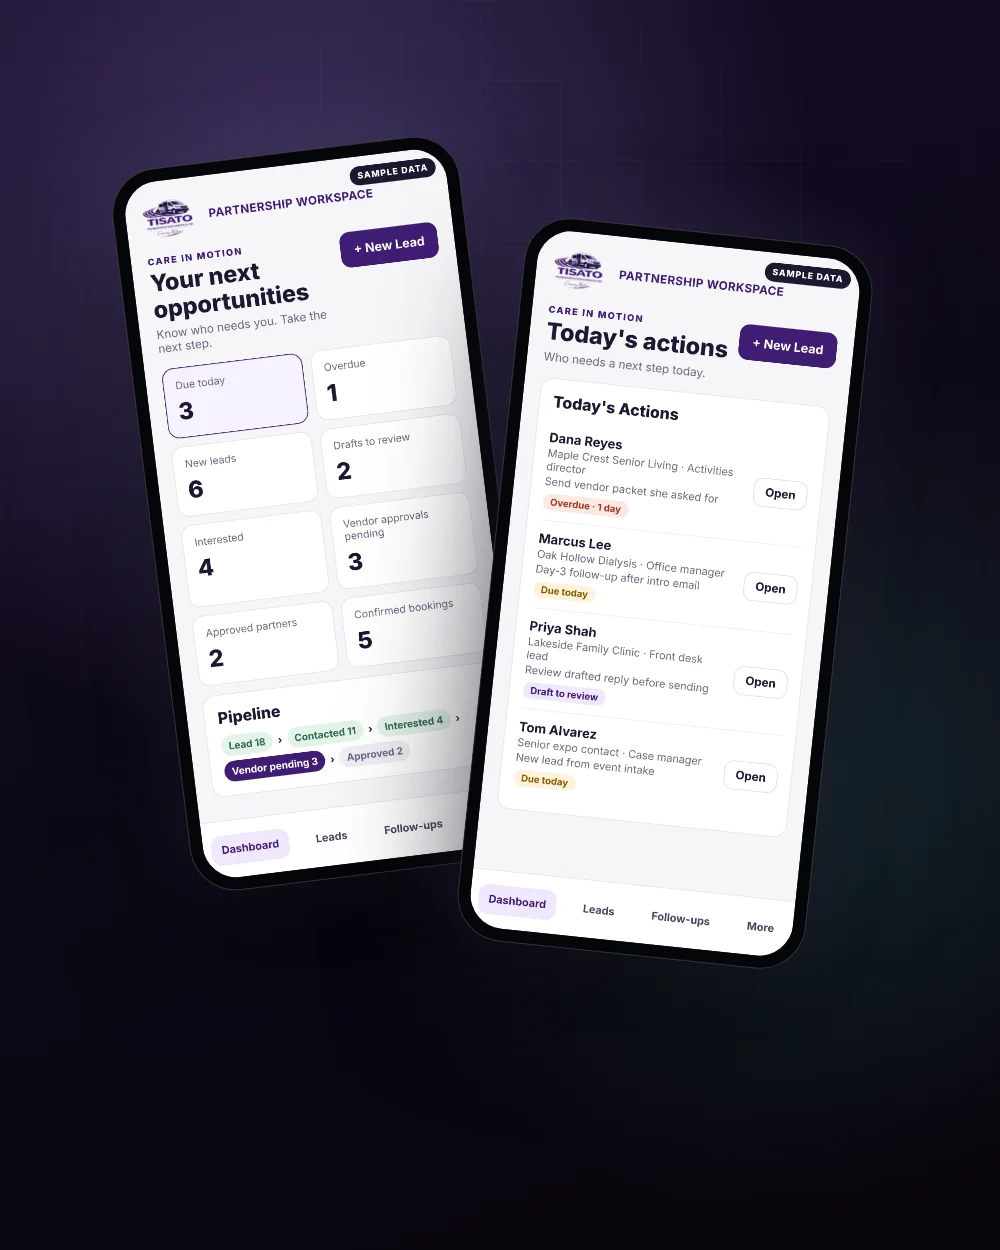
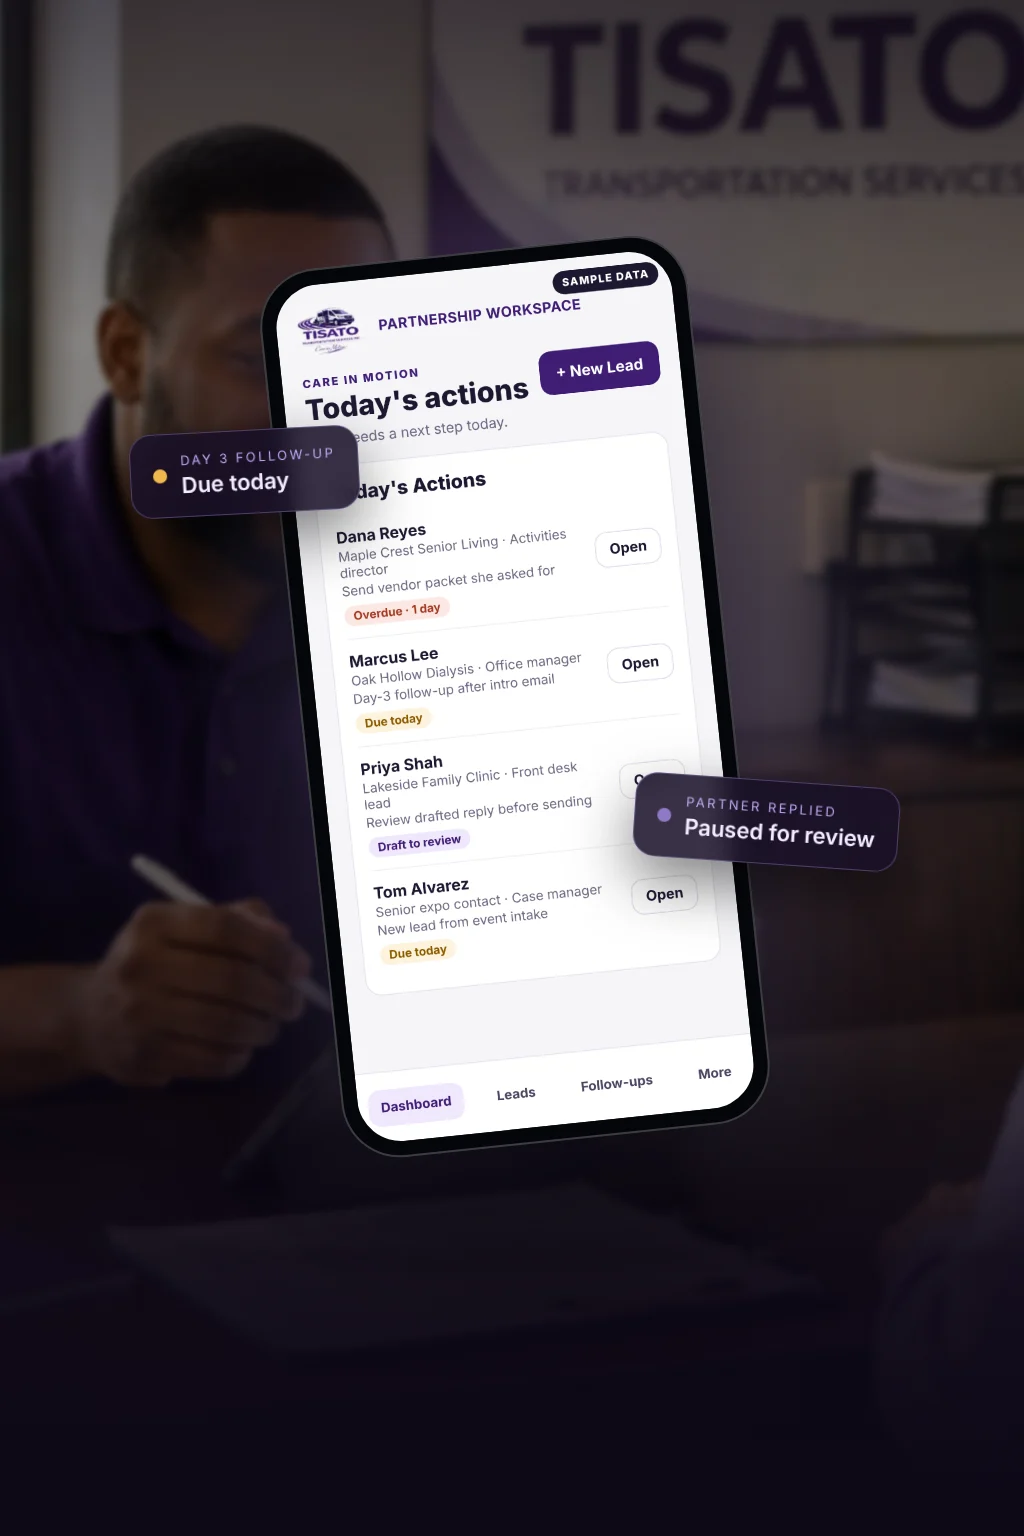
Strengthen CRM case study: automation rules, architecture, new cover
Claude-Session: https://claude.ai/code/session_01LMzmp2VPLy6YUSYNcS77mY

diff --git a/src/components/sections/TisatoCrmCaseStudy.tsx b/src/components/sections/TisatoCrmCaseStudy.tsx
@@ -2,7 +2,9 @@ import { useLayoutEffect, useState } from "react";
 import { AnimatePresence, motion } from "framer-motion";
 import { Link } from "react-router-dom";
 import {
+  crmArchitecture,
   crmGalleryItems,
+  crmRules,
   crmHero,
   crmInsight,
   crmOutcomes,
@@ -276,6 +278,89 @@ function CrmWorkflowStrip() {
   );
 }
 
+function CrmRulesSection() {
+  return (
+    <section className="relative px-6 py-20 md:px-10 lg:px-16">
+      <div className="mx-auto max-w-[1220px] overflow-hidden rounded-[2.6rem] border border-white/8 bg-[linear-gradient(180deg,rgba(24,15,39,0.94),rgba(13,8,22,0.92))] p-6 shadow-[0_30px_100px_rgba(0,0,0,0.26)] backdrop-blur-xl md:p-8">
+        <div className="mb-10 grid gap-6 lg:grid-cols-[1fr_1fr] lg:items-end">
+          <div>
+            <p className="text-xs uppercase tracking-[0.35em] text-muted">Automation rules</p>
+            <h2 className="mt-4 max-w-3xl text-4xl font-light leading-[1.04] md:text-6xl">
+              Knowing when to{" "}
+              <span className="font-display italic">stop</span> mattered as much as knowing when to send.
+            </h2>
+          </div>
+          <p className="max-w-xl text-sm leading-7 text-text-primary/65 md:text-base">
+            Every rule is deterministic, so the team can predict exactly what the system will do. No paid AI decides who gets contacted, and no message goes out on its own.
+          </p>
+        </div>
+        <div className="grid gap-3 md:grid-cols-2">
+          {crmRules.map((rule, index) => (
+            <motion.div
+              key={rule.when}
+              initial={{ opacity: 0, y: 18 }}
+              whileInView={{ opacity: 1, y: 0 }}
+              viewport={{ once: true, margin: "-60px" }}
+              transition={{ duration: 0.45, delay: (index % 2) * 0.06 }}
+              className="grid grid-cols-[auto_1fr] gap-4 rounded-[1.6rem] border border-white/10 bg-[linear-gradient(180deg,rgba(255,255,255,0.06),rgba(255,255,255,0.025))] p-5"
+            >
+              <span className="mt-0.5 h-fit self-start rounded-full border border-[#8f78c6]/30 bg-[#8f78c6]/12 px-3 py-1 text-[10px] uppercase tracking-[0.22em] text-[#d8c8ff]">
+                When
+              </span>
+              <div>
+                <p className="text-base text-text-primary">{rule.when}</p>
+                <p className="mt-2 text-sm leading-6 text-text-primary/65">
+                  <span className="mr-2 text-[10px] uppercase tracking-[0.22em] text-[#8f78c6]">Then</span>
+                  {rule.then}
+                </p>
+              </div>
+            </motion.div>
+          ))}
+        </div>
+      </div>
+    </section>
+  );
+}
+
+function CrmArchitectureSection() {
+  return (
+    <section className="relative px-6 py-20 md:px-10 lg:px-16">
+      <div className="mx-auto max-w-[1220px] overflow-hidden rounded-[2.6rem] border border-white/8 bg-[linear-gradient(180deg,rgba(18,12,31,0.9),rgba(13,8,22,0.96))] p-6 shadow-[0_28px_100px_rgba(0,0,0,0.24)] backdrop-blur-xl md:p-8">
+        <div className="mb-10 text-center">
+          <p className="text-xs uppercase tracking-[0.35em] text-muted">How it&apos;s built</p>
+          <h2 className="mx-auto mt-4 max-w-4xl text-4xl font-light leading-[1.04] md:text-6xl">
+            Free tools, built on what the team already used.
+          </h2>
+          <p className="mx-auto mt-4 max-w-2xl text-sm leading-7 text-text-primary/65 md:text-base">
+            Instead of buying a CRM subscription, I extended the spreadsheet TISATO already kept. That meant no migration, no monthly cost, and no new tool for the team to learn.
+          </p>
+        </div>
+        <div className="grid gap-4 md:grid-cols-4">
+          {crmArchitecture.map((layer, index) => (
+            <motion.div
+              key={layer.label}
+              initial={{ opacity: 0, y: 22 }}
+              whileInView={{ opacity: 1, y: 0 }}
+              viewport={{ once: true, margin: "-80px" }}
+              transition={{ duration: 0.5, delay: index * 0.06 }}
+              className="relative rounded-[2rem] border border-white/10 bg-[linear-gradient(180deg,rgba(255,255,255,0.07),rgba(255,255,255,0.03))] p-5 shadow-[0_18px_40px_rgba(0,0,0,0.16)]"
+            >
+              <p className="text-[10px] uppercase tracking-[0.24em] text-[#8f78c6]">Layer {index + 1}</p>
+              <h3 className="mt-3 text-xl text-text-primary">{layer.label}</h3>
+              <p className="mt-3 text-sm leading-7 text-text-primary/68">{layer.detail}</p>
+              {index < crmArchitecture.length - 1 ? (
+                <span aria-hidden="true" className="absolute -right-3 top-1/2 z-10 hidden h-6 w-6 -translate-y-1/2 items-center justify-center rounded-full border border-[#8f78c6]/35 bg-[#180f27] text-xs text-[#d8c8ff] md:flex">
+                  ↔
+                </span>
+              ) : null}
+            </motion.div>
+          ))}
+        </div>
+      </div>
+    </section>
+  );
+}
+
 function GalleryCard({
   item,
   onOpen,
@@ -487,7 +572,9 @@ export function TisatoCrmCaseStudy() {
       <CrmHero />
       <CrmInsightPanel />
       <CrmWorkflowStrip />
+      <CrmRulesSection />
       <CrmGallerySection />
+      <CrmArchitectureSection />
       <CrmOutcomes />
       <CrmReflection />
     </main>

diff --git a/src/data/tisatoCrmCaseStudy.ts b/src/data/tisatoCrmCaseStudy.ts
@@ -67,6 +67,62 @@ export const crmWorkflow: CrmWorkflowStep[] = [
   },
 ];
 
+export const crmRules: { when: string; then: string }[] = [
+  {
+    when: "A new lead is added",
+    then: "The first follow-up is scheduled on a 3, 7, and 14 business-day cadence the team can adjust.",
+  },
+  {
+    when: "A partner replies",
+    then: "Automation stops for that contact until a person reviews the conversation.",
+  },
+  {
+    when: "Someone opts out",
+    then: "The contact is suppressed, so no follow-up is suggested again.",
+  },
+  {
+    when: "An email address is invalid",
+    then: "Follow-ups hold until the address is reviewed and fixed.",
+  },
+  {
+    when: "A draft is prepared or copied",
+    then: "Nothing is marked as sent. Only a send recorded with evidence counts.",
+  },
+  {
+    when: "Contact details change",
+    then: "Any existing draft needs a fresh review, and text a person wrote by hand is kept.",
+  },
+  {
+    when: "A CSV import finds a duplicate",
+    then: "The import stops for review. Rows already saved stay saved.",
+  },
+  {
+    when: "Every hour",
+    then: "Recommendations and the CEO dashboard are recalculated from the latest records.",
+  },
+];
+
+export const crmArchitecture = [
+  {
+    label: "Mobile web app",
+    detail: "Private, phone-first interface for daily work. Only the TISATO Google account can open it.",
+  },
+  {
+    label: "Rules engine",
+    detail:
+      "Google Apps Script holds the follow-up, suppression, and pipeline rules, kept separate from the code that reads and writes the sheet.",
+  },
+  {
+    label: "Google Sheet CRM",
+    detail:
+      "A nine-tab sheet tracks contacts, activity history, drafts, vendor applications, bookings, and payments. The original tracker tab stays untouched.",
+  },
+  {
+    label: "Hourly job",
+    detail: "A scheduled trigger reconciles recommendations and refreshes the dashboard.",
+  },
+];
+
 export const crmGalleryItems: CrmGalleryItem[] = [
   {
     id: "dashboard",
